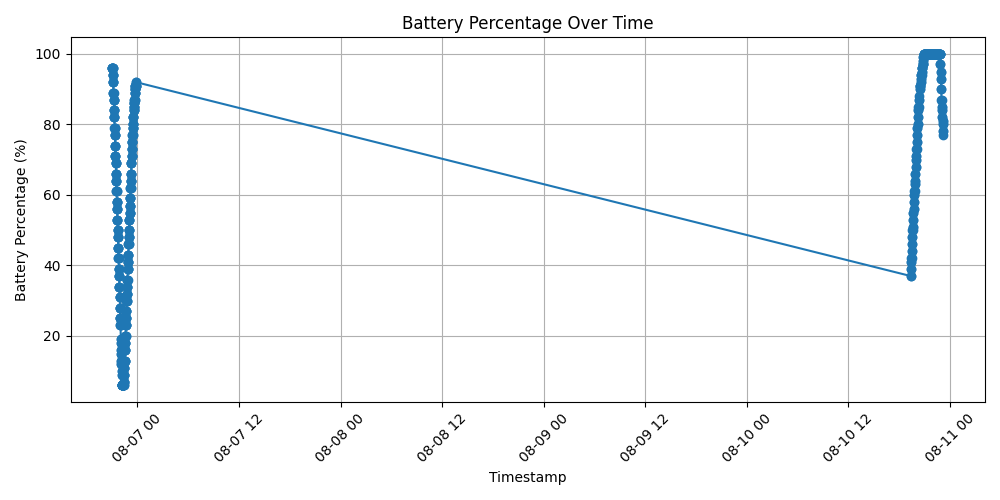
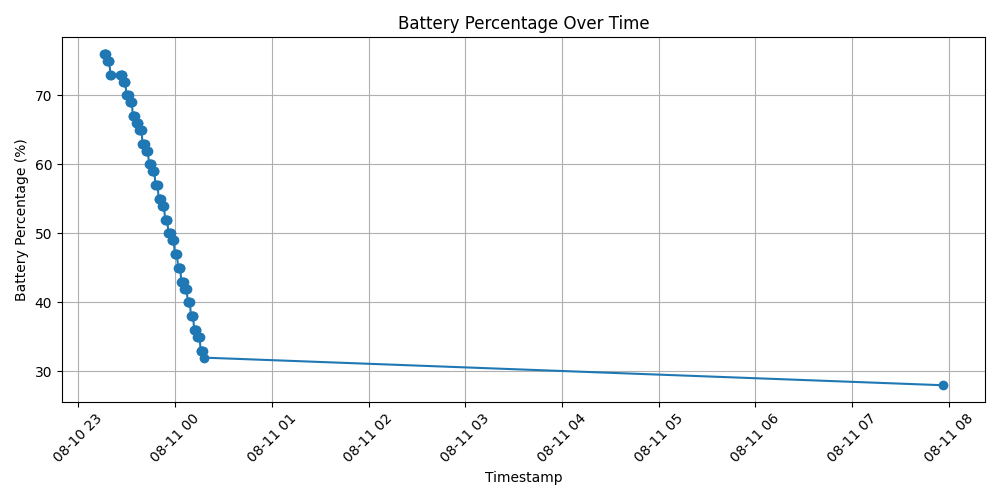
resolved incorrect handling of headers issue

diff --git a/Battery_Logger/batterylogplot.py b/Battery_Logger/batterylogplot.py
@@ -1,12 +1,10 @@
 import pandas as pd
 import matplotlib.pyplot as plt
 
-
-
 # Load the data
-data = pd.read_csv('battery_log.csv', header=None, names=['Timestamp', 'Battery_Percentage'])
+data = pd.read_csv('battery_log.csv')
 
-# Print columns to check if 'Timestamp" is correct
+# Print columns to check if 'Timestamp' is correct
 print(data.columns)
 
 # Convert the Timestamp column to datetime
@@ -28,4 +26,6 @@ plt.savefig('battery_plot.png')
 
 # Show the plot
 plt.show()
+
+
 
